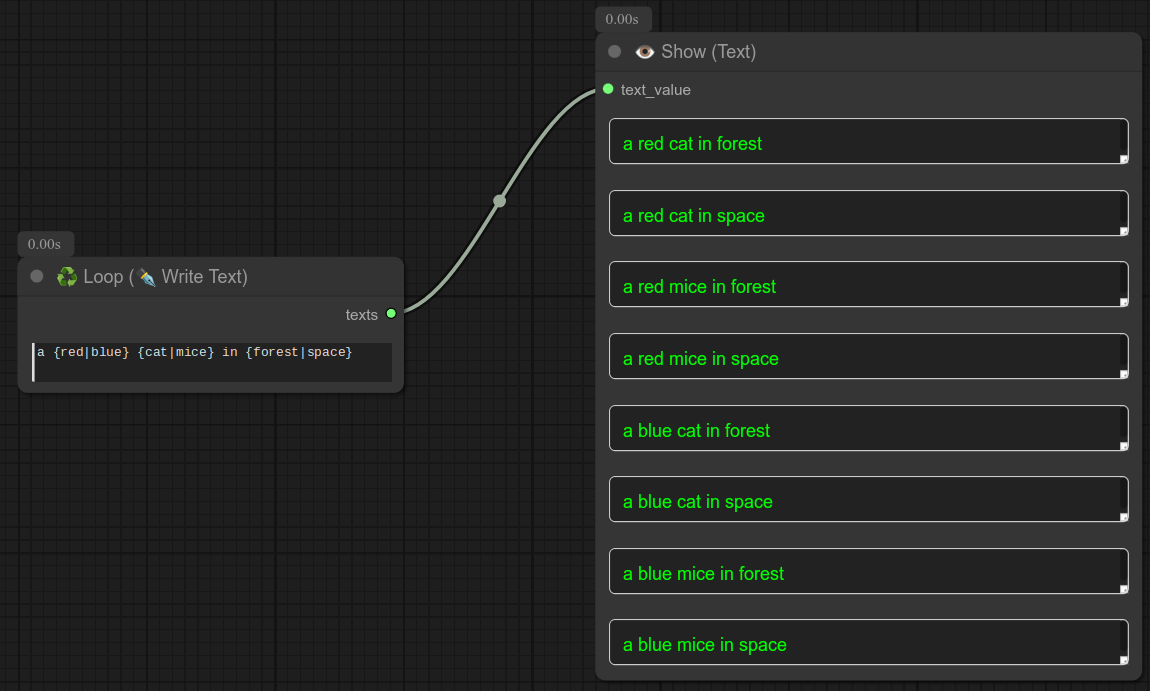
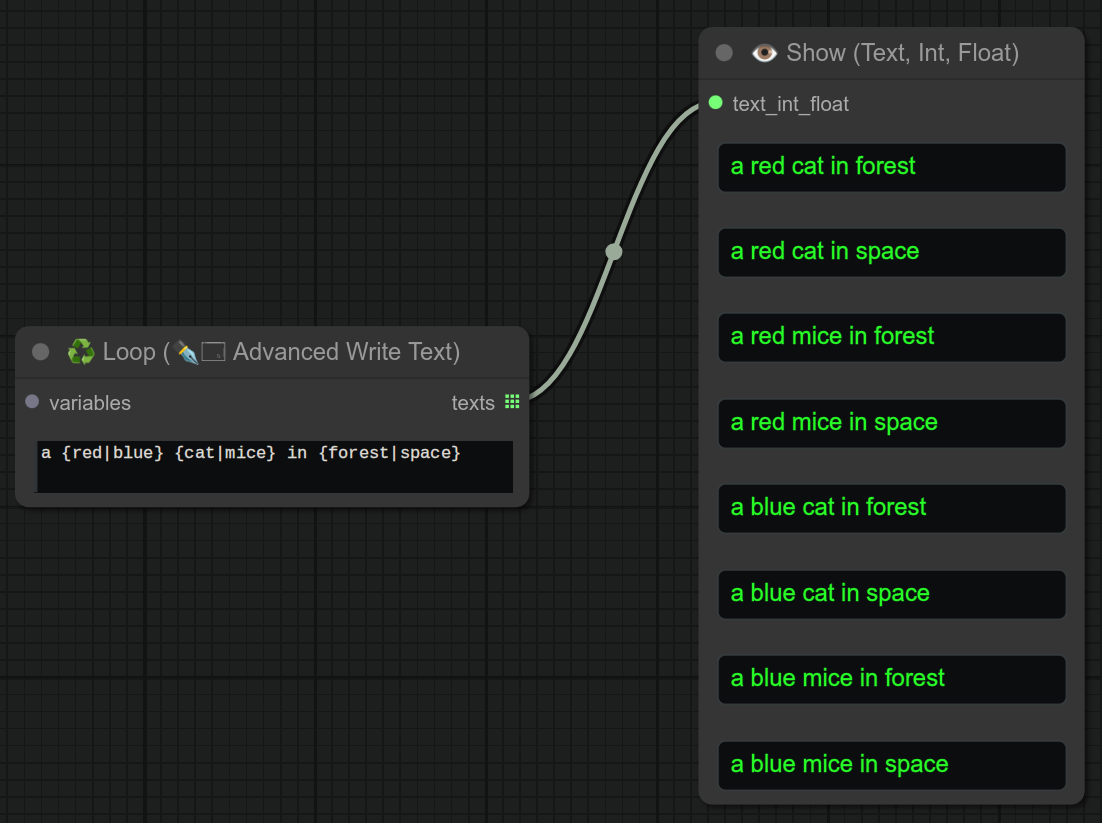
0.44

diff --git a/ollama.py b/ollama.py
@@ -2,29 +2,63 @@ import ollama
 from ollama import Client  # pip install ollama
 import logging
 import hashlib
+import os
 
 class ollamaLoader:
     @classmethod
-    def get_available_models(cls):
+    def read_host_from_file(cls, filename='ollama_ip.txt'):
         try:
-            # First try with 127.0.0.1
-            client = Client(host="http://127.0.0.1:11434")
-            list_models = client.list()  # Assuming list() is part of the Client class
-            return [model['name'] for model in list_models['models']]
-        except Exception as e1:
-            print(f"Error fetching models from 127.0.0.1: {e1}")
+            # Get the directory where the script is located
+            script_dir = os.path.dirname(os.path.realpath(__file__))
+            file_path = os.path.join(script_dir, filename)
+
+            # Print the constructed file path for verification
+            print(f"Looking for file at: {file_path}")
+
+            with open(file_path, 'r') as f:
+                host = f.read().strip()
+                if host:
+                    logging.info(f"Using host from {file_path}: {host}")
+                    return host
+                else:
+                    logging.warning(f"{file_path} is empty. Falling back to default hosts.")
+        except Exception as e:
+            logging.error(f"Failed to read host from {file_path}: {e}")
+        return None  # Return None if reading fails
+
+    @classmethod
+    def get_available_models(cls):
+        host = cls.read_host_from_file()
+        if host:
             try:
-                # Fallback to 0.0.0.0
-                client = Client(host="http://0.0.0.0:11434")
+                client = Client(host=host)
                 list_models = client.list()
                 return [model['name'] for model in list_models['models']]
-            except Exception as e2:
-                print(f"Error fetching models from 0.0.0.0: {e2}")
-                return ["none"]  # Return a default model if fetching fails
+            except Exception as e:
+                logging.error(f"Error fetching models from {host}: {e}")
+
+        # Fallback to default hosts if reading from file fails
+        for default_host in ["http://127.0.0.1:11434", "http://0.0.0.0:11434"]:
+            try:
+                client = Client(host=default_host)
+                list_models = client.list()
+                return [model['name'] for model in list_models['models']]
+            except Exception as e:
+                logging.error(f"Error fetching models from {default_host}: {e}")
+        return ["none"]  # Return a default model if fetching fails
 
     @classmethod
     def INPUT_TYPES(cls):
-        default_system_prompt = "Describe a specific example of an object, animal, person, or landscape based on a given general idea. Start with a clear and concise overall description in the first sentence. Then, provide a detailed depiction of its physical features, focusing on colors, size, clothing, eyes, and other distinguishing characteristics. Use commas to separate each detail and avoid listing them. Ensure each description is vivid, precise, and specific to one unique instance of the subject. Refrain from using poetic language and giving it a name.\nExample input: man\n Example output: \nAn overweight old man sitting on a bench, wearing a blue hat, yellow pants, orange jacket and black shirt, sunglasses, very long beard, very pale skin, long white hair, very large nose."
+        default_system_prompt = (
+            "Describe a specific example of an object, animal, person, or landscape based on a given general idea. "
+            "Start with a clear and concise overall description in the first sentence. Then, provide a detailed depiction "
+            "of its physical features, focusing on colors, size, clothing, eyes, and other distinguishing characteristics. "
+            "Use commas to separate each detail and avoid listing them. Ensure each description is vivid, precise, and "
+            "specific to one unique instance of the subject. Refrain from using poetic language and giving it a name.\n"
+            "Example input: man\n Example output: \nAn overweight old man sitting on a bench, wearing a blue hat, "
+            "yellow pants, orange jacket and black shirt, sunglasses, very long beard, very pale skin, long white hair, "
+            "very large nose."
+        )
         return {
             "required": {
                 "user_prompt": ("STRING", {"multiline": True}),
@@ -57,42 +91,38 @@ class ollamaLoader:
         else:
             # Content hasn't changed, set seed to None to prevent randomization
             seed = None
-        
-        keep_alive_minutes = 0
-        if(keep_1min_in_vram):
-            keep_alive_minutes = 1
-            
-        keep_alive = 0
-        # client = Client(host="http://0.0.0.0:11434")
-        # response = client.generate(
-        #     model=selected_model,
-        #     system=system_prompt,
-        #     prompt=user_prompt,
-        #     keep_alive=str(keep_alive_minutes) + "m"
-        # )
-        try:
-            # First attempt with 127.0.0.1
-            client = Client(host="http://127.0.0.1:11434")
-            response = client.generate(
-                model=selected_model,
-                system=system_prompt,
-                prompt=user_prompt,
-                keep_alive=str(keep_alive_minutes) + "m"
-            )
-            logging.info("Ollama response (127.0.0.1): " + response['response'])
-        except Exception as e:
-            logging.warning(f"Connection to 127.0.0.1 failed: {e}")
+
+        keep_alive_minutes = 1 if keep_1min_in_vram else 0
+
+        host = self.read_host_from_file()
+        if host:
             try:
-                # Fallback to 0.0.0.0 if 127.0.0.1 fails
-                client = Client(host="http://0.0.0.0:11434")
+                client = Client(host=host)
                 response = client.generate(
                     model=selected_model,
                     system=system_prompt,
                     prompt=user_prompt,
-                    keep_alive=str(keep_alive_minutes) + "m"
+                    keep_alive=f"{keep_alive_minutes}m"
                 )
-                logging.info("Ollama response (0.0.0.0): " + response['response'])
+                logging.info(f"Ollama response ({host}): {response['response']}")
+                return (response['response'],)
             except Exception as e:
-                logging.error(f"Connection to 0.0.0.0 also failed: {e}")
-        logging.info("Ollama response : " + response['response'])
-        return (response['response'],)
+                logging.error(f"Connection to {host} failed: {e}")
+
+        # Fallback to default hosts if reading from file fails
+        for default_host in ["http://127.0.0.1:11434", "http://0.0.0.0:11434"]:
+            try:
+                client = Client(host=default_host)
+                response = client.generate(
+                    model=selected_model,
+                    system=system_prompt,
+                    prompt=user_prompt,
+                    keep_alive=f"{keep_alive_minutes}m"
+                )
+                logging.info(f"Ollama response ({default_host}): {response['response']}")
+                return (response['response'],)
+            except Exception as e:
+                logging.error(f"Connection to {default_host} failed: {e}")
+
+        logging.error("All connection attempts failed.")
+        return ("Connection to Ollama failed.",)

diff --git a/README.md b/README.md
@@ -1,4 +1,4 @@
-# 🔗 Comfyui : Bjornulf_custom_nodes v0.43 🔗
+# 🔗 Comfyui : Bjornulf_custom_nodes v0.44 🔗
 
 # Coffee : ☕☕☕☕☕ 5/5
 
@@ -29,7 +29,7 @@
 `27.` [♻ Loop (All Lines from input)](#27----loop-all-lines-from-input)  
 `33.` [♻ Loop (All Lines from input 🔗 combine by lines)](#33----loop-all-lines-from-input--combine-by-lines)  
 `38.` [♻🖼 Loop (Images)](#38----loop-images)  
-`39.` [♻ Loop (✒🗔 Advanced Write Text)](#39----loop--advanced-write-text)  
+`39.` [♻ Loop (✒🗔 Advanced Write Text + 🅰 variables)](#39----loop--advanced-write-text)  
 `42.` [♻ Loop (Model+Clip+Vae) - aka Checkpoint / Model](#42----loop-modelclipvae---aka-checkpoint--model)  
 
 ## 🎲 Randomization 🎲
@@ -213,6 +213,7 @@ cd /where/you/installed/ComfyUI && python main.py
 - **v0.41**: Two new nodes : image details and combine images. Also ❗ Big changes to the If-Else node. (+many minor changes)
 - **v0.42**: Better README with category nodes, changes some node titles
 - **v0.43**: Add control_after_generate to Ollama and allow to keep in VRAM for 1 minute if needed. (For chaining quick generations.) Add fallback to 0.0.0.0
+- **v0.44**: Allow ollama to have a cusom url in the file `ollama_ip.txt` in the comfyui custom nodes folder. Minor changes, add details/updates to README.
 
 # 📝 Nodes descriptions
 
@@ -383,6 +384,8 @@ Each run will be significantly faster, but not free your VRAM for something else
 ![Ollama](screenshots/ollama_2.png) 
 
 ⚠ Warning : Using `keep_1min_in_vram` might be a bit heavy on your VRAM. Think about if you really need it or not. Most of the time, when using `keep_1min_in_vram`, you don't want to have also a generation of image or anything else in the same time.  
+
+⚠ You can create a file called `ollama_ip.txt` in my comfyui custom node folder if you have a special IP for your ollama server, mine is : `http://192.168.1.37:11434`  
 
 ## 20 - 📹 Video Ping Pong
 ![Video Ping Pong](screenshots/video_pingpong.png)
@@ -733,9 +736,13 @@ But for example, if you want to use my node `select an image, pick`, you need to
 
 ![combine images](screenshots/combine_images_2.png)
 
-You can notice that there is no visible difference when you use `all_in_one` with `preview image` node. (this is why I added the `show text` node, not that show text will make it blue, because it's an image/tensor.)  
+You can notice that there is no visible difference when you use `all_in_one` with `preview image` node. (this is why I added the `show text` node, note that show text will make it blue, because it's an image/tensor.)  
 
 When you use `combine image` node, you can actually also send many images at once, it will combine them all.  
 Here is an example with `Load images from folder` node, `Image details` node and `Combine images` node. (Of course it can't have `all_in_one` set to True in this situation because the images have different resolutions) :  
 
 ![combine images](screenshots/combine_images_3.png)
+
+Here another simple example taking a few selected images from a folder and combining them (For later processing for example) :  
+
+![combine images](screenshots/combine_images_4.png)
